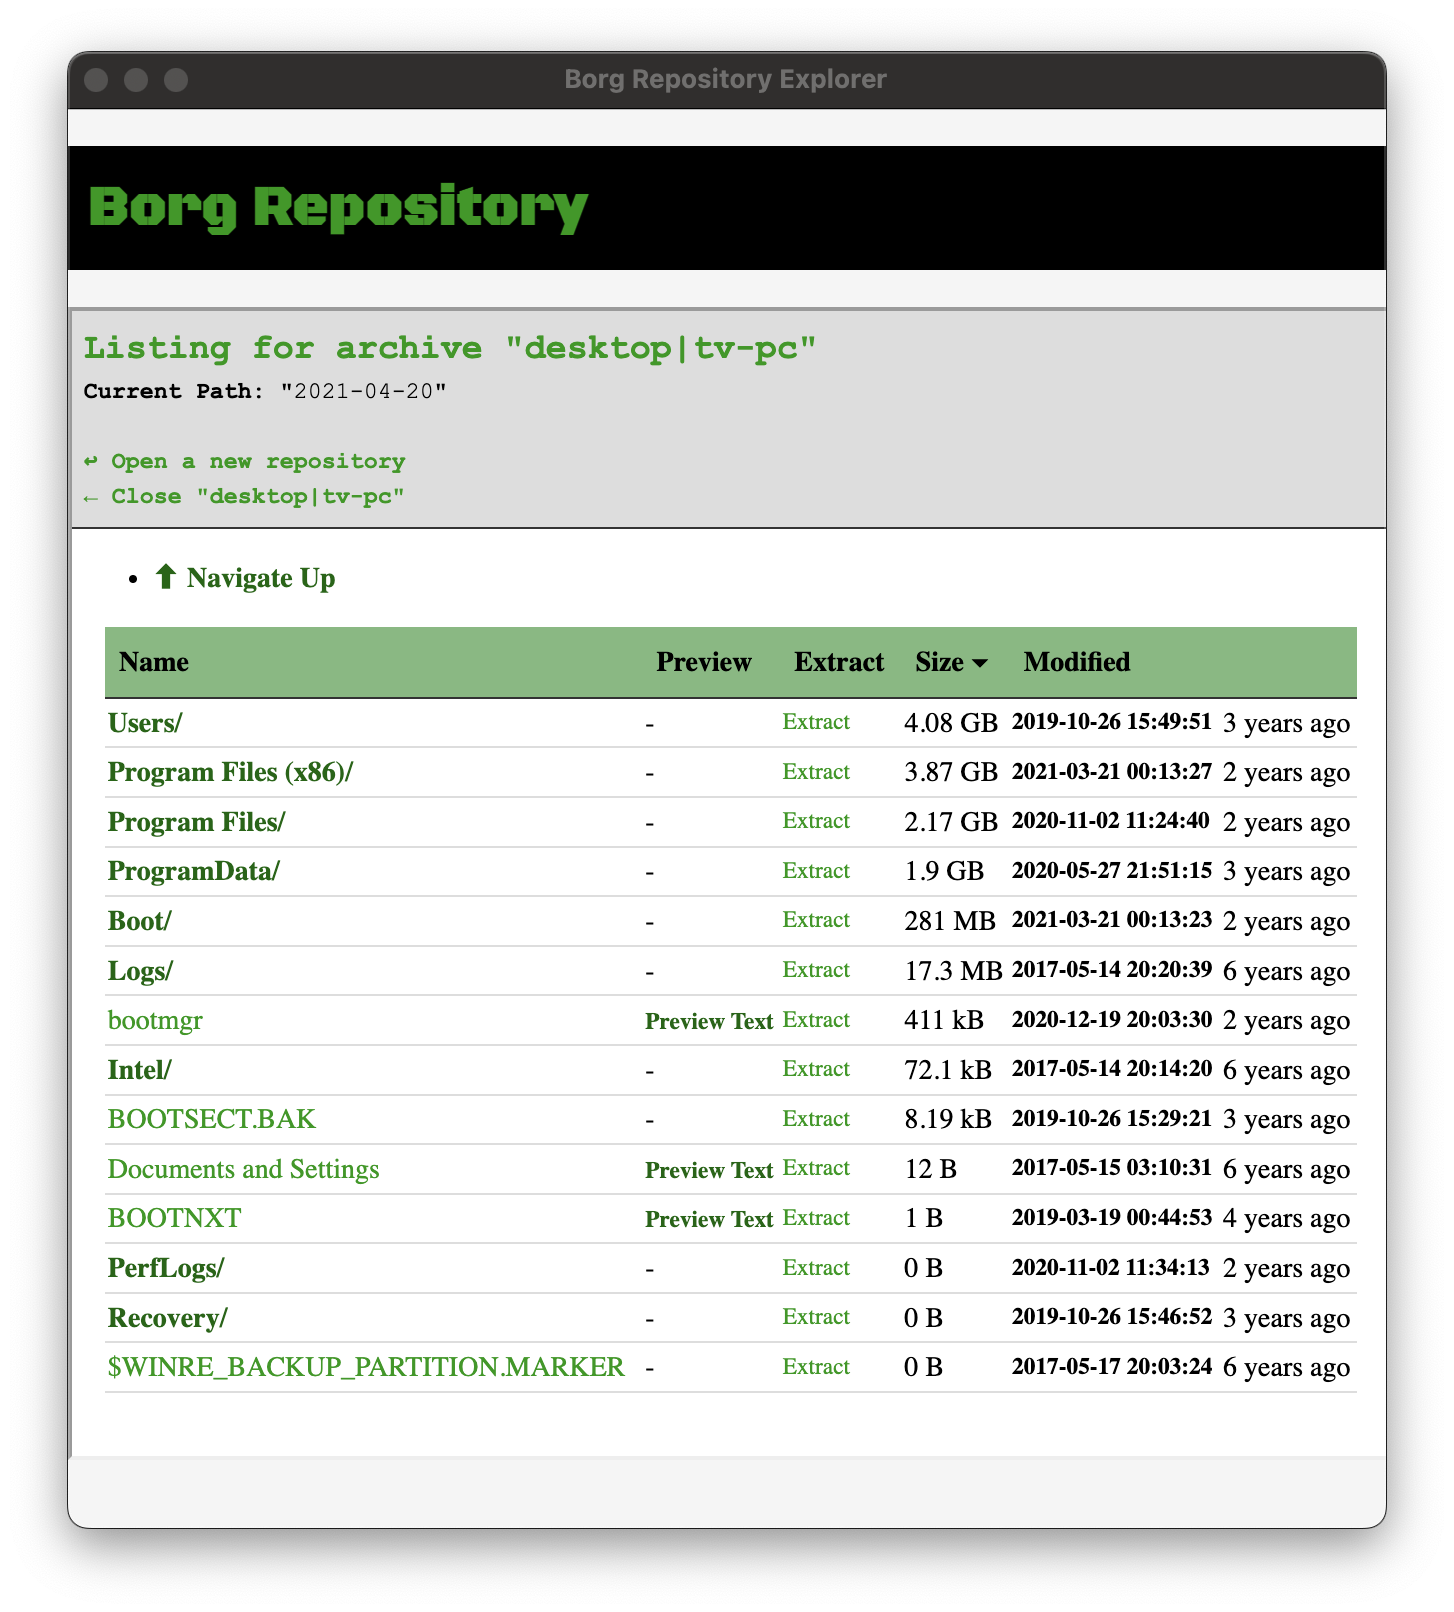
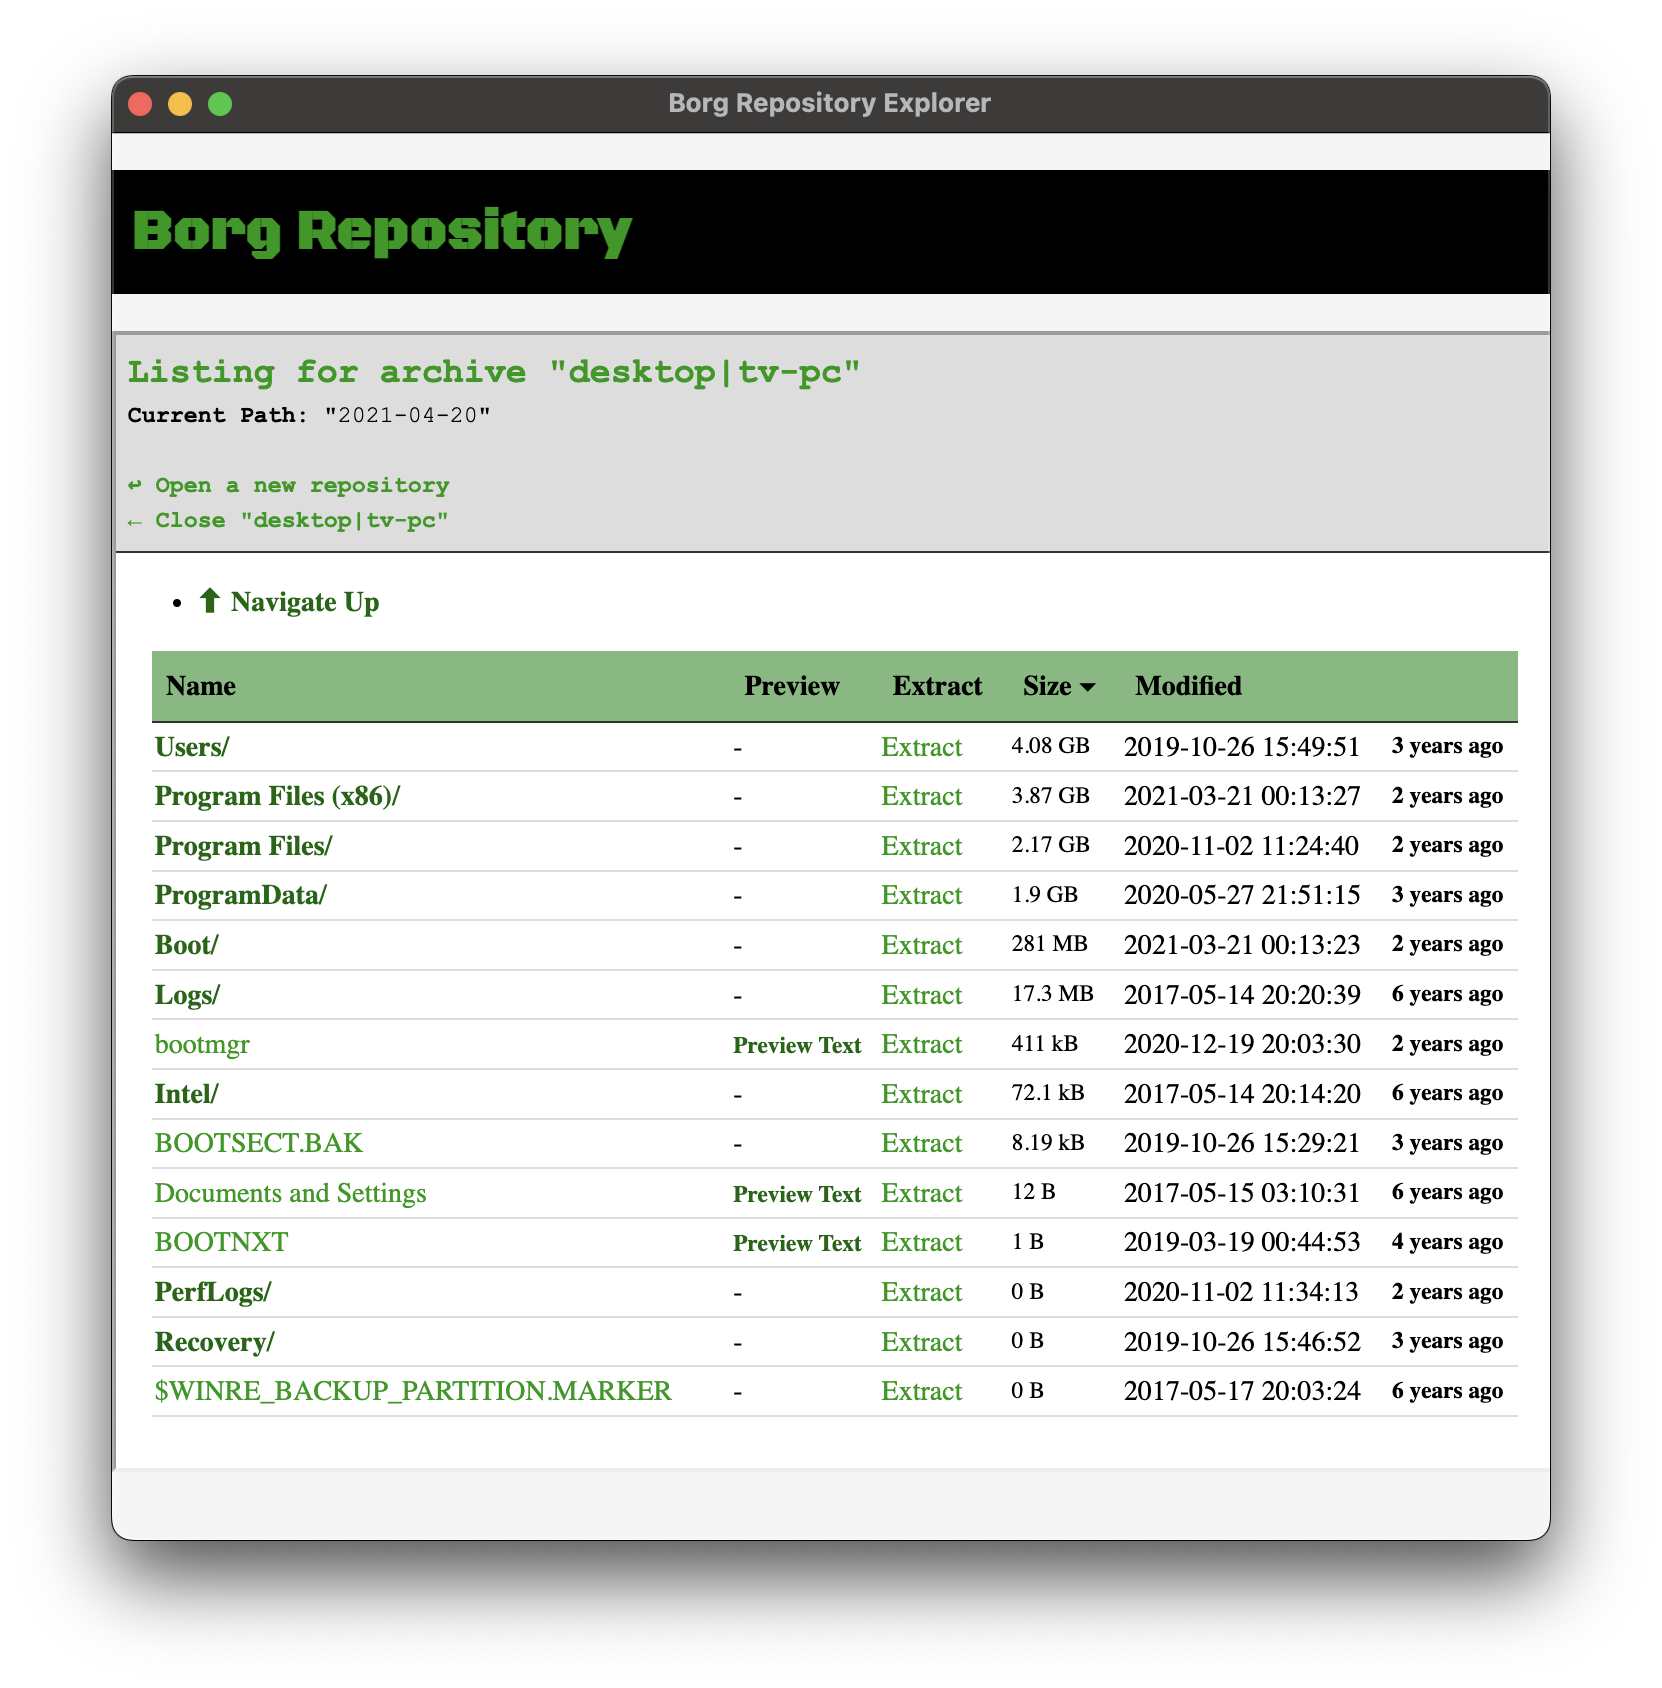
Fix styling

Changed region(s): [[0.0309, 0.031, 0.9594, 0.9615]]

diff --git a/borg-explorer/src/file-listing-frame.css b/borg-explorer/src/file-listing-frame.css
@@ -63,12 +63,12 @@ td {
   padding: 0.1em;
 }
 
-.file-size, tbody>tr>:nth-child(3) {
+.file-size, tbody>tr>:nth-child(4) {
   font-size: smaller;
   font-weight: normal;
 }
 
-.file-date, .directory-date, .archive-date, tbody>tr>:nth-child(5) {
+.file-date, .directory-date, .archive-date, tbody>tr>:nth-child(6) {
   font-size: smaller;
   font-weight: bold;
 }
